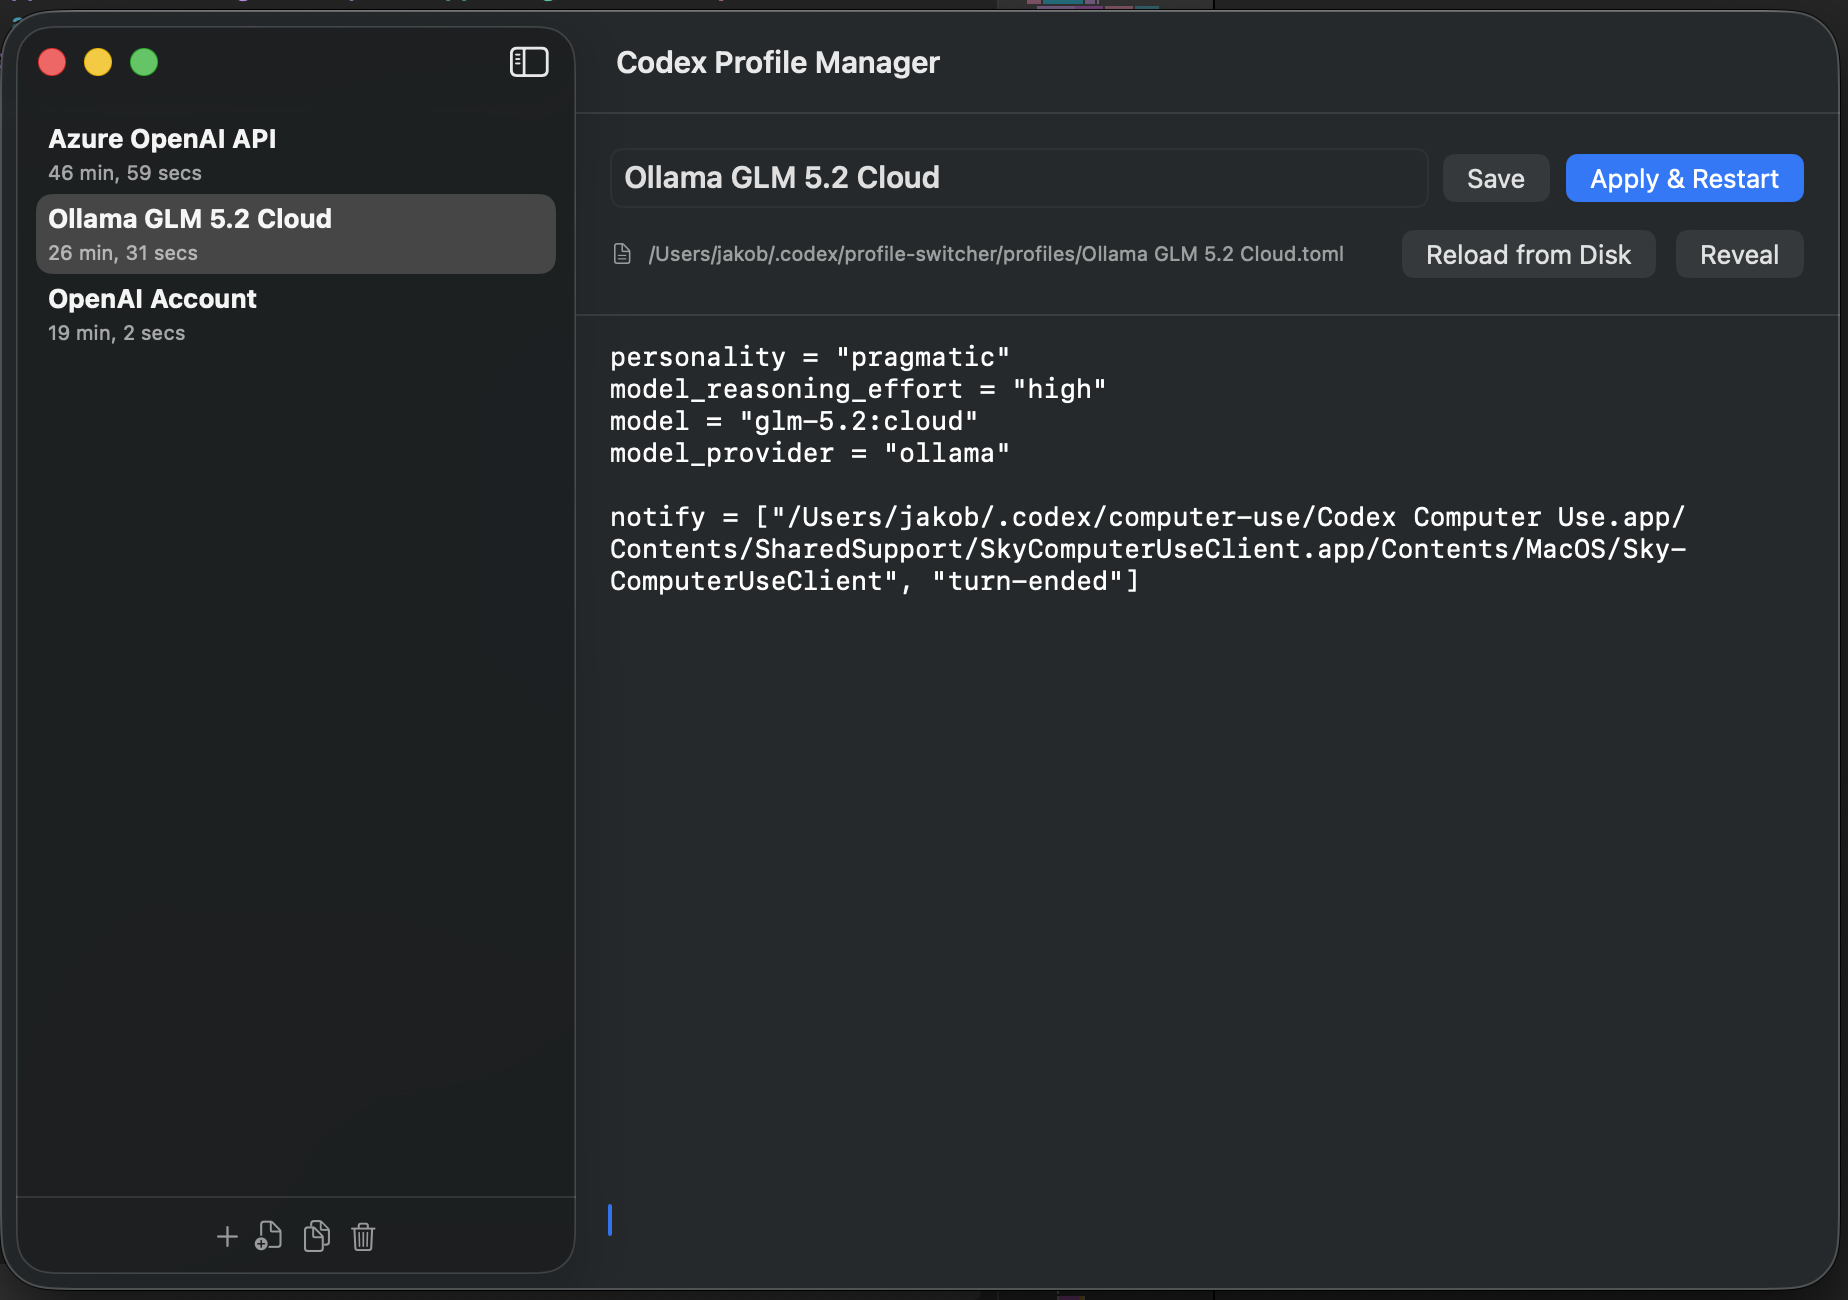
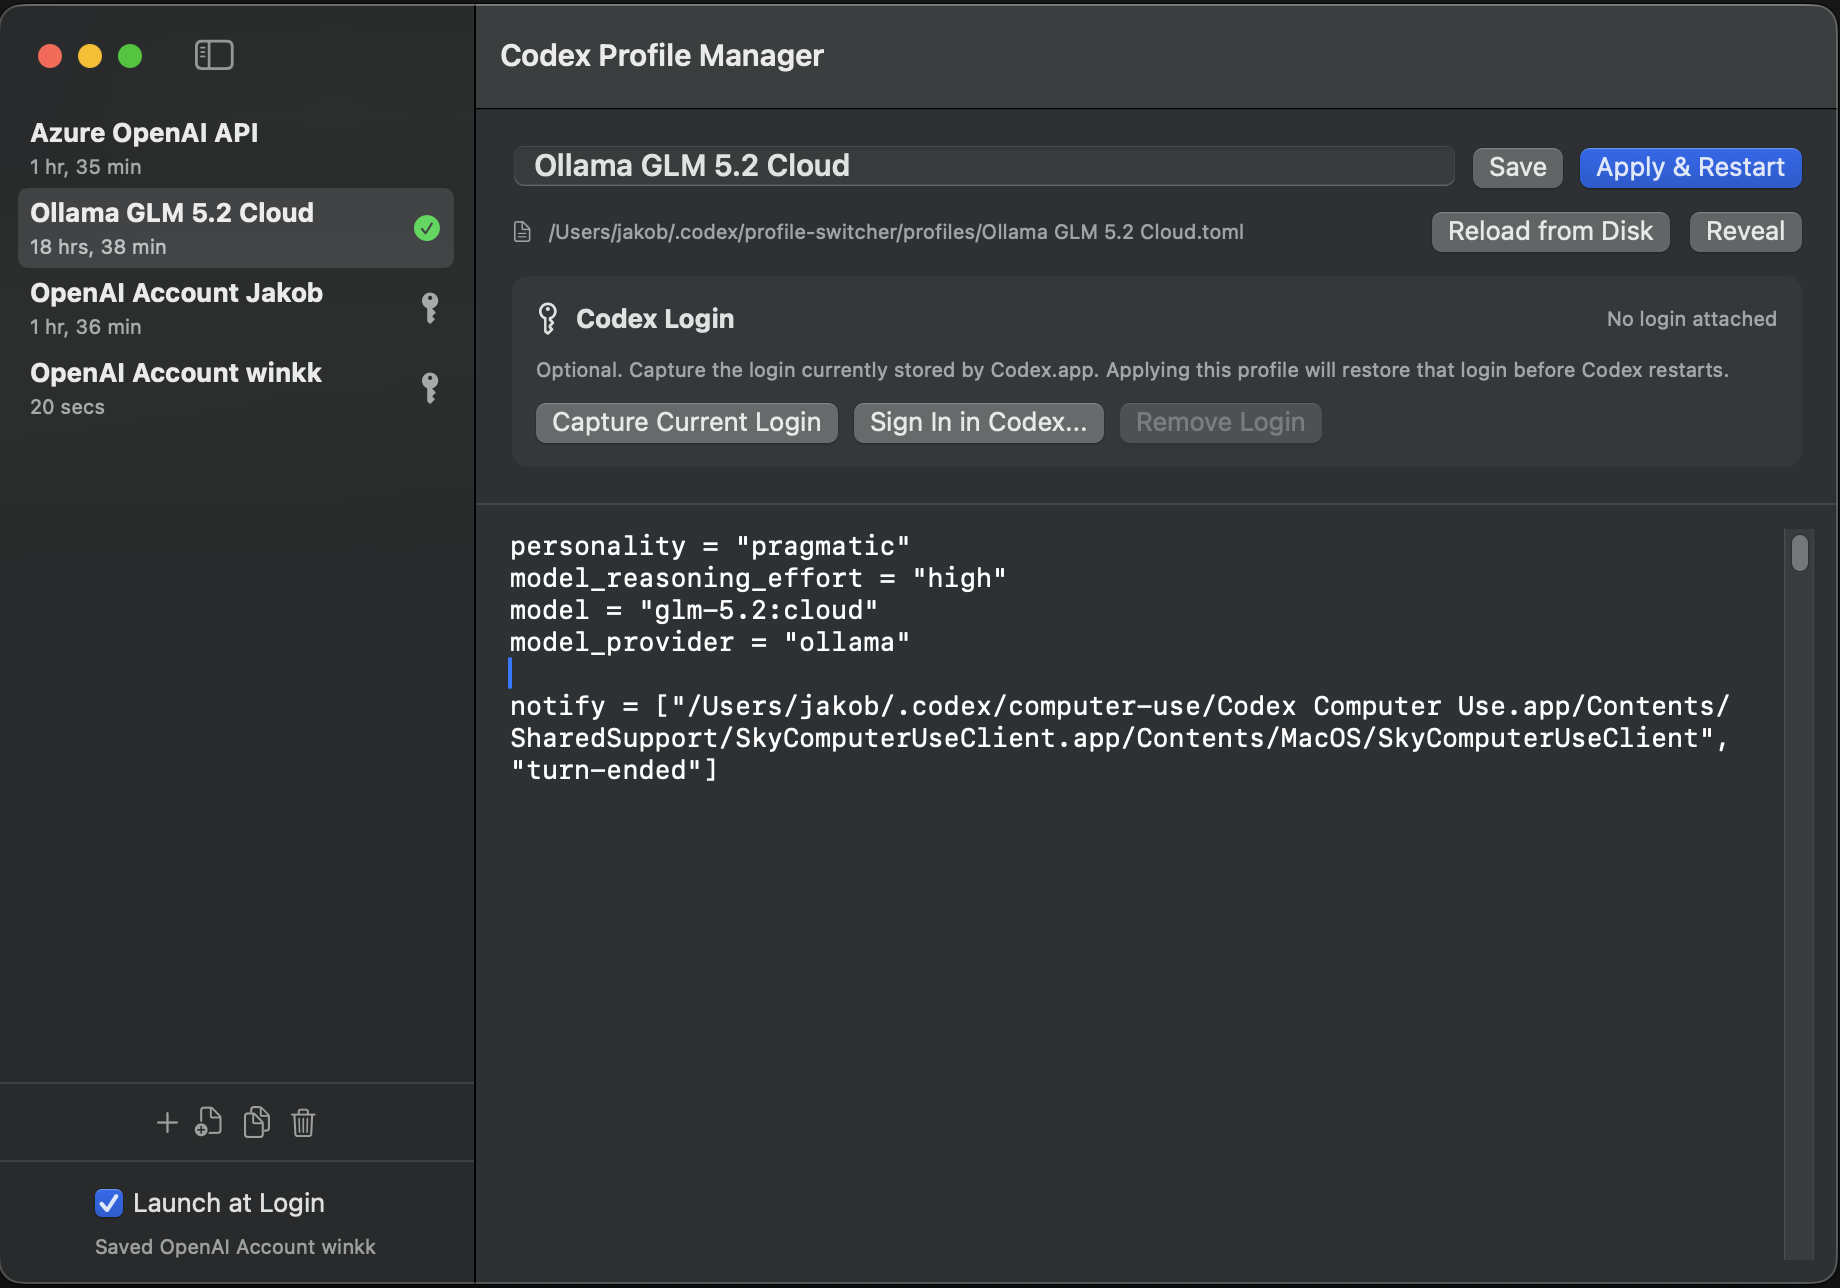
Update README screenshot and profile copy

Changed region(s): [[0.0, 0.0, 1.0, 1.0], [0.0, 0.0932, 0.1859, 0.3416], [0.2168, 0.2795, 0.2478, 0.3106]]

diff --git a/README.md b/README.md
@@ -1,6 +1,6 @@
 # Codex Profile Switcher
 
-A macOS menu bar app for switching between local Codex CLI configuration profiles.
+A macOS menu bar app for switching between multiple Codex setups, including separate ChatGPT/OpenAI accounts and API provider profiles for Azure OpenAI, Ollama, and other compatible backends.
 
 It stores profile snapshots in `~/.codex/profile-switcher/profiles` and applies a selected profile by writing it to `~/.codex/config.toml`, then restarting Codex.
 
@@ -28,13 +28,13 @@ Profile manager:
 
 ## Features
 
-- Switch between saved Codex configuration profiles from the menu bar.
+- Switch between multiple ChatGPT/OpenAI account logins for Codex.
+- Switch between API-based Codex profiles, such as Azure OpenAI, Ollama, or other provider configurations.
 - Manage, edit, duplicate, and delete profiles in a SwiftUI window.
 - Create a profile from the current `~/.codex/config.toml`.
 - Optionally attach a file-based Codex login snapshot to a profile.
 - Back up `~/.codex/config.toml` before applying a profile.
 - Launch automatically after login from the menu bar toggle.
-- Prevent multiple menu bar instances from running at the same time.
 
 ## Profiles
 
@@ -44,7 +44,7 @@ Profiles are plain TOML files stored here:
 ~/.codex/profile-switcher/profiles
 ```
 
-The filename is used as the display name:
+The filename is used as the display name. Example profile names:
 
 ```text
 OpenAI Account.toml
@@ -83,11 +83,3 @@ From the command line:
 ```sh
 xcodebuild -project "Codex Profile Switcher.xcodeproj" -scheme CodexProfileSwitcher -configuration Debug build
 ```
-
-## Notes
-
-- Codex is expected at `/Applications/Codex.app`.
-- Applying a profile writes to `~/.codex/config.toml`.
-- Applying a profile with an attached login writes to `~/.codex/auth.json`.
-- Automatic launch starts the menu bar app when the user logs in after a reboot.
-- Do not distribute personal profile files, API keys, or generated config backups.